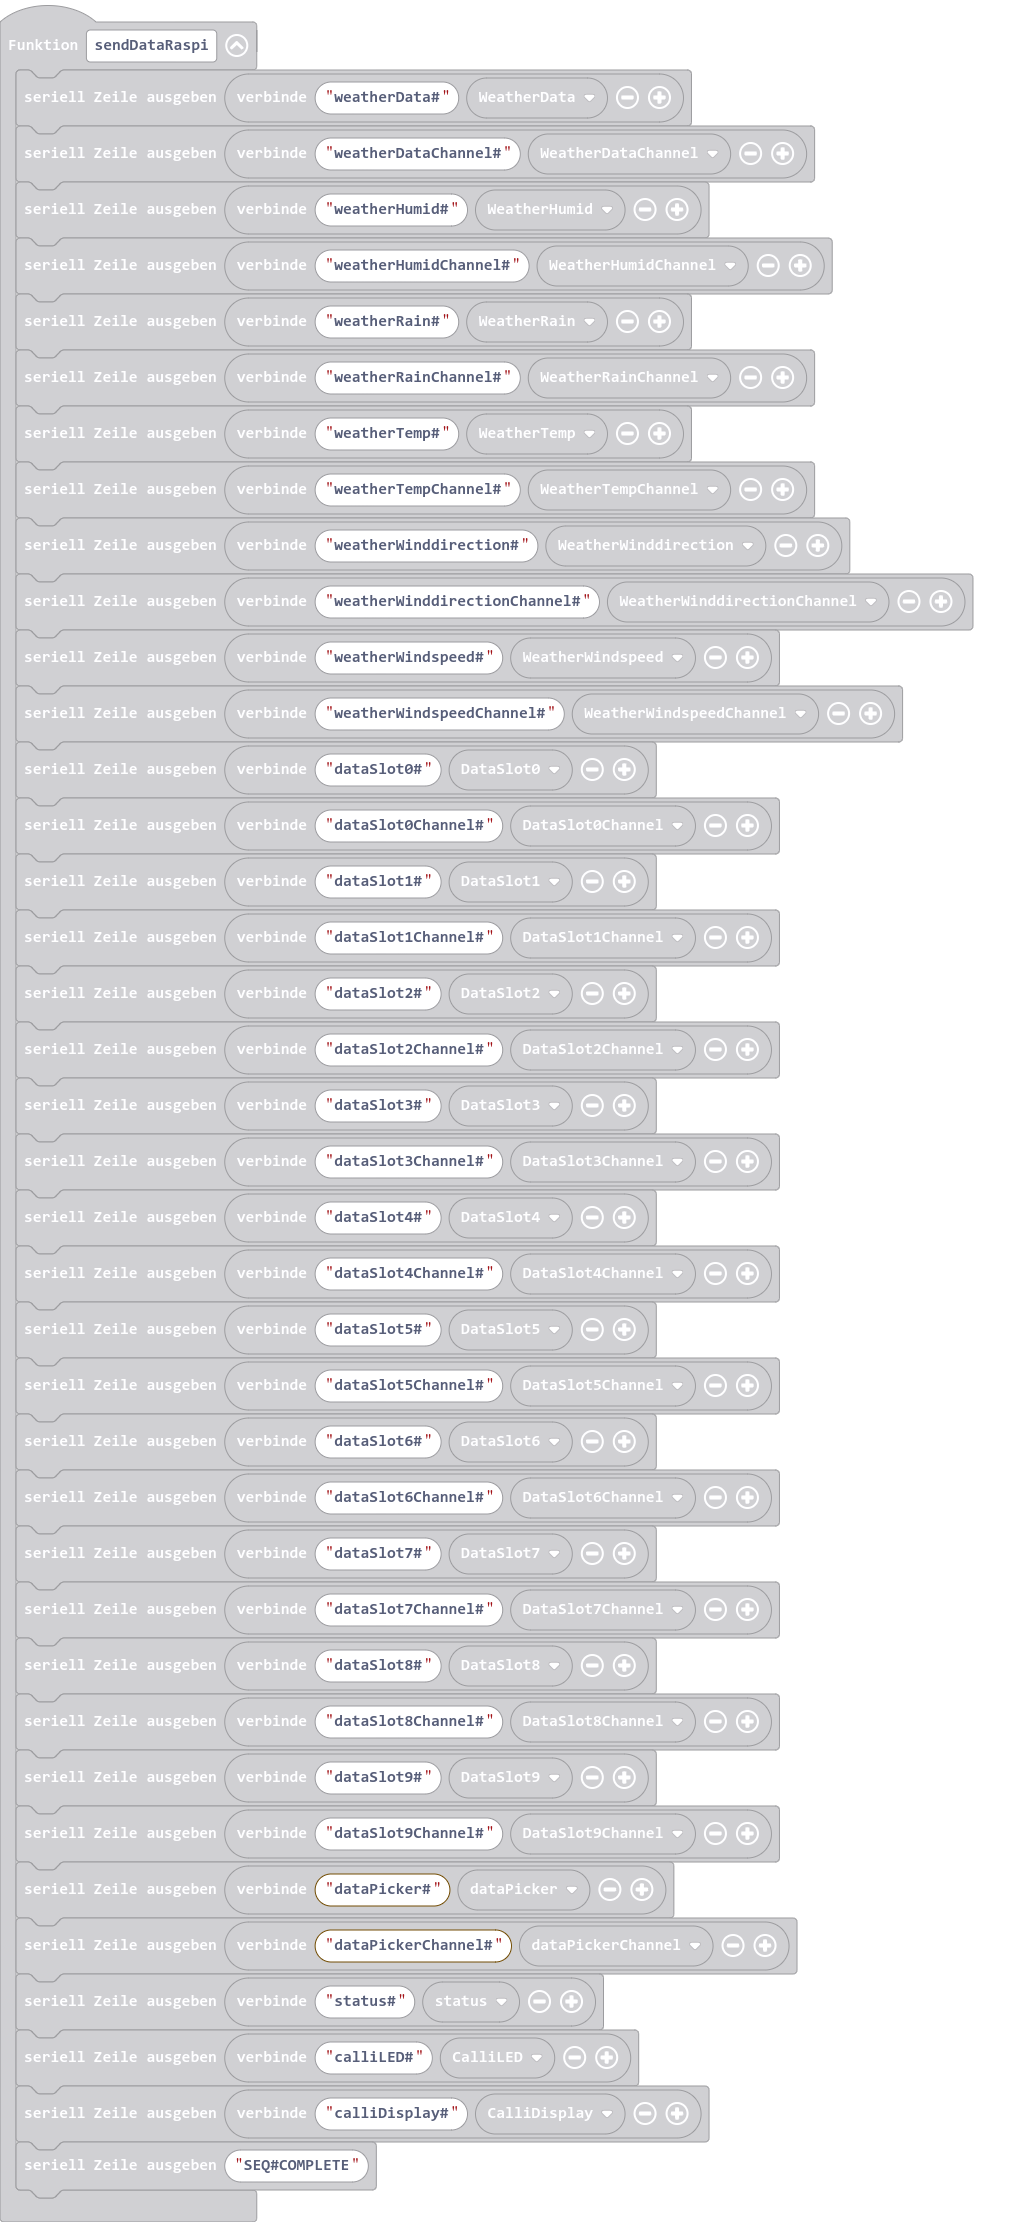
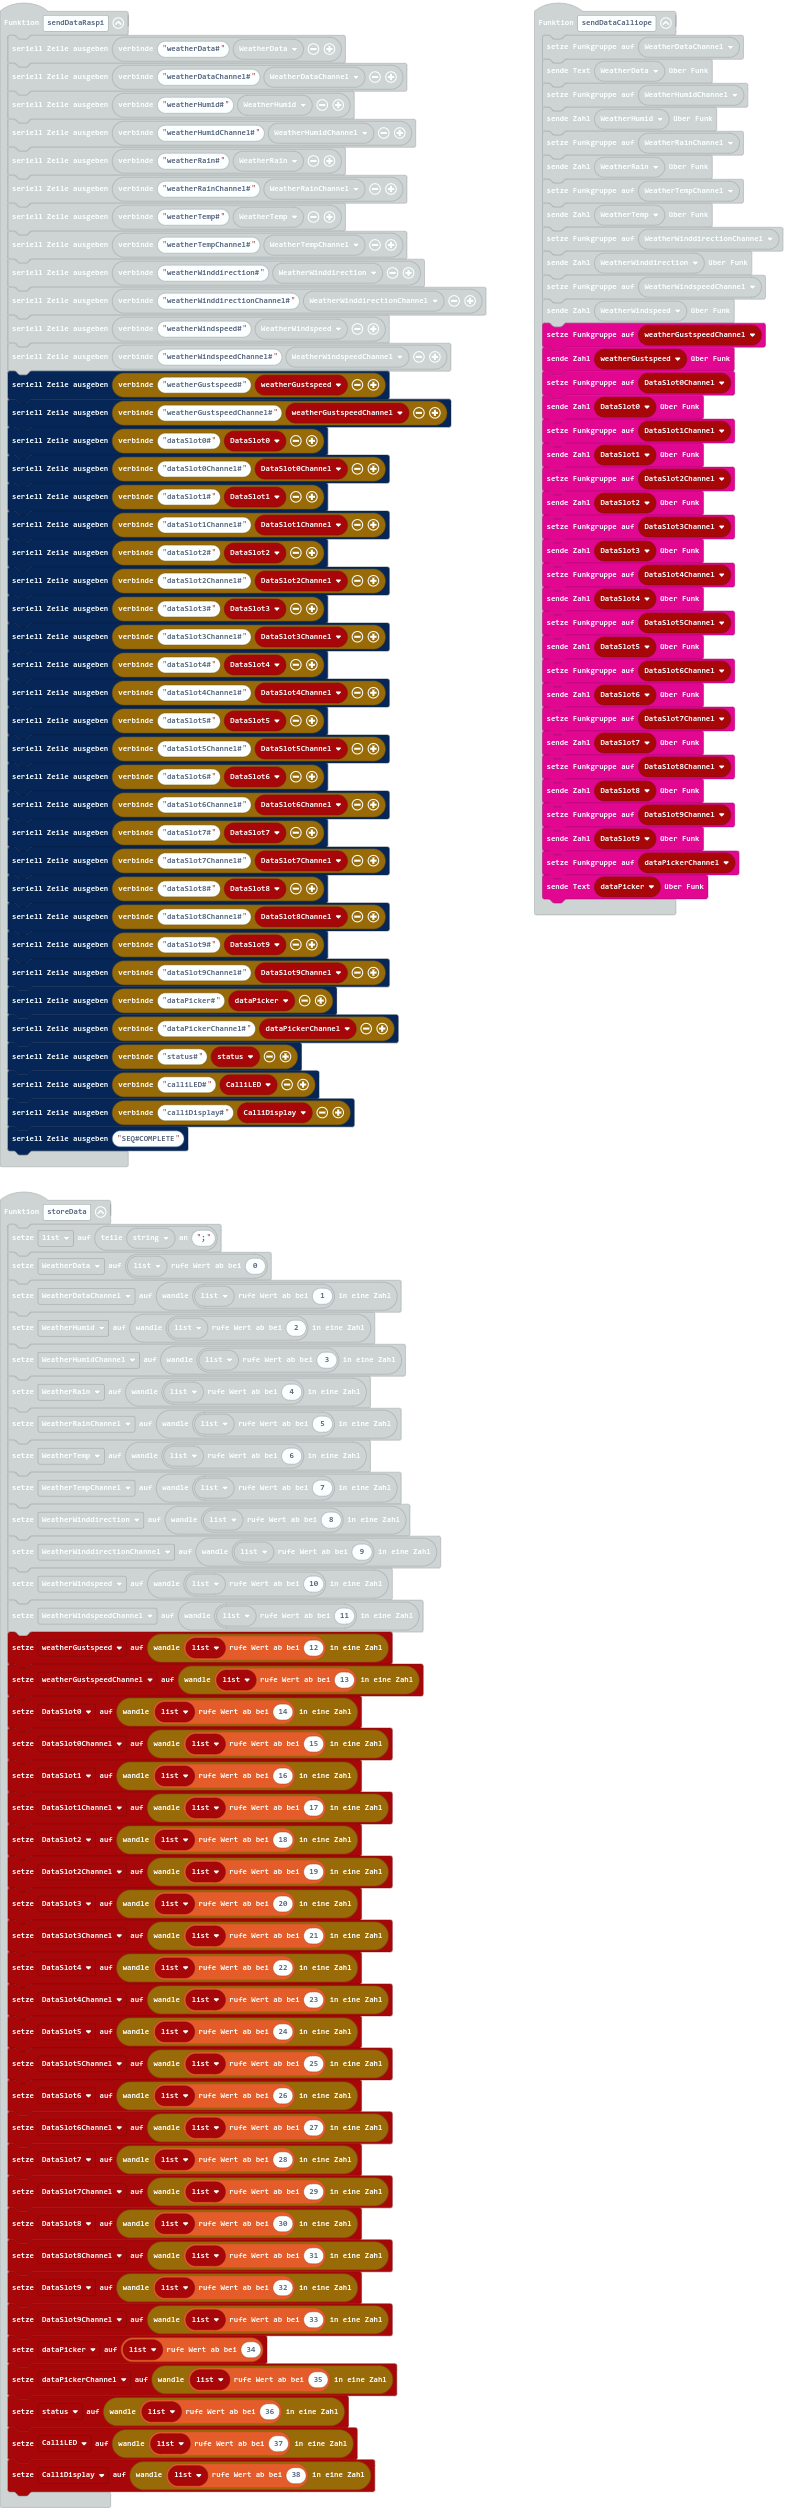
added value weatherGustspeed

diff --git a/main.ts b/main.ts
@@ -11,6 +11,8 @@ function sendDataCalliope () {
     radio.sendNumber(WeatherWinddirection)
     radio.setGroup(WeatherWindspeedChannel)
     radio.sendNumber(WeatherWindspeed)
+    radio.setGroup(weatherGustspeedChannel)
+    radio.sendNumber(weatherGustspeed)
     radio.setGroup(DataSlot0Channel)
     radio.sendNumber(DataSlot0)
     radio.setGroup(DataSlot1Channel)
@@ -74,6 +76,8 @@ function sendDataRaspi () {
     serial.writeLine("weatherWinddirectionChannel#" + WeatherWinddirectionChannel)
     serial.writeLine("weatherWindspeed#" + WeatherWindspeed)
     serial.writeLine("weatherWindspeedChannel#" + WeatherWindspeedChannel)
+    serial.writeLine("weatherGustspeed#" + weatherGustspeed)
+    serial.writeLine("weatherGustspeedChannel#" + weatherGustspeedChannel)
     serial.writeLine("dataSlot0#" + DataSlot0)
     serial.writeLine("dataSlot0Channel#" + DataSlot0Channel)
     serial.writeLine("dataSlot1#" + DataSlot1)
@@ -115,31 +119,33 @@ function storeData () {
     WeatherWinddirectionChannel = parseFloat(list[9])
     WeatherWindspeed = parseFloat(list[10])
     WeatherWindspeedChannel = parseFloat(list[11])
-    DataSlot0 = parseFloat(list[12])
-    DataSlot0Channel = parseFloat(list[13])
-    DataSlot1 = parseFloat(list[14])
-    DataSlot1Channel = parseFloat(list[15])
-    DataSlot2 = parseFloat(list[16])
-    DataSlot2Channel = parseFloat(list[17])
-    DataSlot3 = parseFloat(list[18])
-    DataSlot3Channel = parseFloat(list[19])
-    DataSlot4 = parseFloat(list[20])
-    DataSlot4Channel = parseFloat(list[21])
-    DataSlot5 = parseFloat(list[22])
-    DataSlot5Channel = parseFloat(list[23])
-    DataSlot6 = parseFloat(list[24])
-    DataSlot6Channel = parseFloat(list[25])
-    DataSlot7 = parseFloat(list[26])
-    DataSlot7Channel = parseFloat(list[27])
-    DataSlot8 = parseFloat(list[28])
-    DataSlot8Channel = parseFloat(list[29])
-    DataSlot9 = parseFloat(list[30])
-    DataSlot9Channel = parseFloat(list[31])
-    dataPicker = list[32]
-    dataPickerChannel = parseFloat(list[33])
-    status = parseFloat(list[34])
-    CalliLED = parseFloat(list[35])
-    CalliDisplay = parseFloat(list[36])
+    weatherGustspeed = parseFloat(list[12])
+    weatherGustspeedChannel = parseFloat(list[13])
+    DataSlot0 = parseFloat(list[14])
+    DataSlot0Channel = parseFloat(list[15])
+    DataSlot1 = parseFloat(list[16])
+    DataSlot1Channel = parseFloat(list[17])
+    DataSlot2 = parseFloat(list[18])
+    DataSlot2Channel = parseFloat(list[19])
+    DataSlot3 = parseFloat(list[20])
+    DataSlot3Channel = parseFloat(list[21])
+    DataSlot4 = parseFloat(list[22])
+    DataSlot4Channel = parseFloat(list[23])
+    DataSlot5 = parseFloat(list[24])
+    DataSlot5Channel = parseFloat(list[25])
+    DataSlot6 = parseFloat(list[26])
+    DataSlot6Channel = parseFloat(list[27])
+    DataSlot7 = parseFloat(list[28])
+    DataSlot7Channel = parseFloat(list[29])
+    DataSlot8 = parseFloat(list[30])
+    DataSlot8Channel = parseFloat(list[31])
+    DataSlot9 = parseFloat(list[32])
+    DataSlot9Channel = parseFloat(list[33])
+    dataPicker = list[34]
+    dataPickerChannel = parseFloat(list[35])
+    status = parseFloat(list[36])
+    CalliLED = parseFloat(list[37])
+    CalliDisplay = parseFloat(list[38])
 }
 let list: string[] = []
 let CalliDisplay = 0
@@ -168,6 +174,8 @@ let DataSlot1 = 0
 let DataSlot1Channel = 0
 let DataSlot0 = 0
 let DataSlot0Channel = 0
+let weatherGustspeed = 0
+let weatherGustspeedChannel = 0
 let WeatherWindspeed = 0
 let WeatherWindspeedChannel = 0
 let WeatherWinddirection = 0
